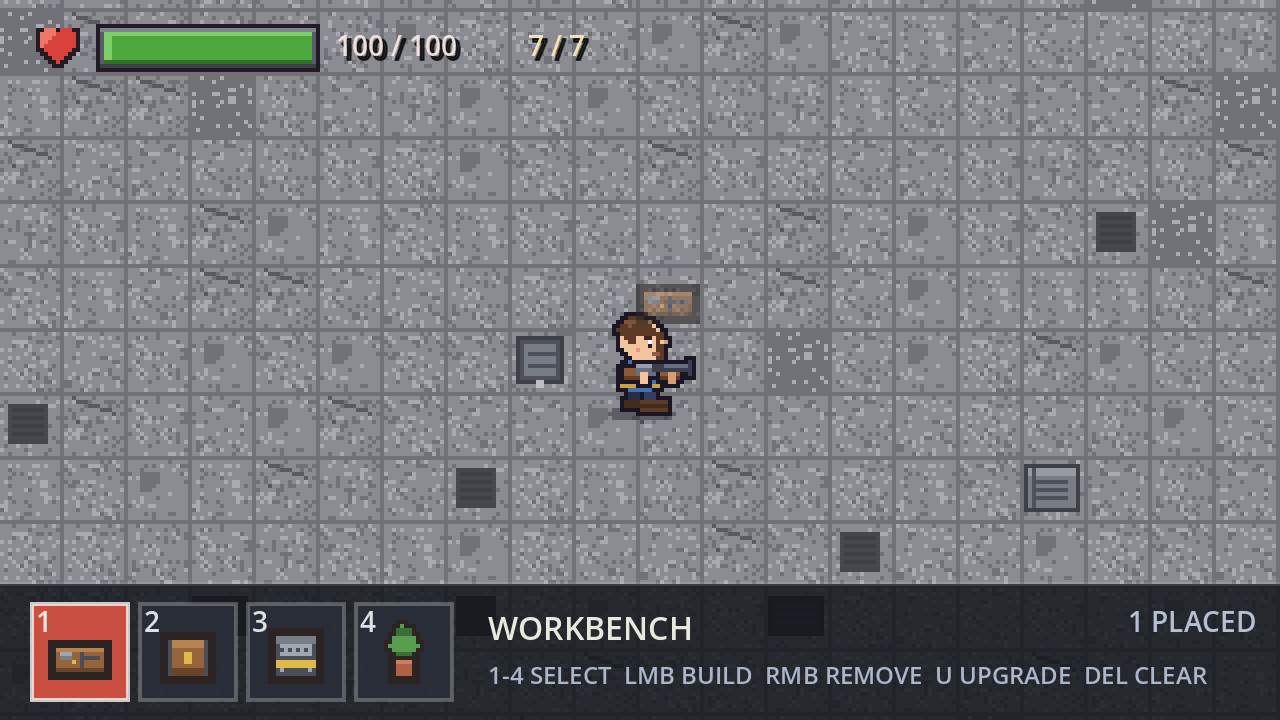
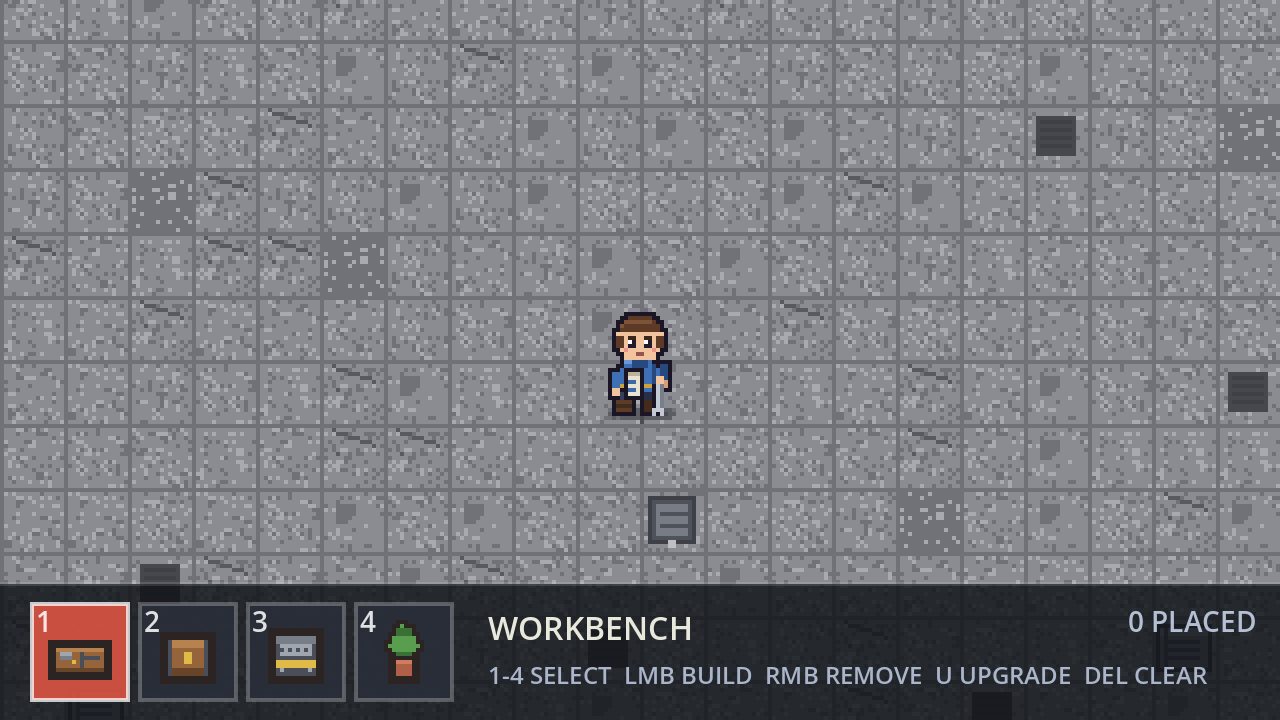
feat: 建造模式角色手里拿蓝图 + 扳手（四方向动画）
- 新增 character_sheet_build.png：空手身体 + 蓝图 + 扳手，四个方向 idle/走路都有
- tools/make_build_sheet.py 从 gun 层定位手的位置合成道具
- player 增加 _frames_build 与 set_build_mode()；builder 发出 build_mode_changed
- Tab 进出建造模式时自动换姿势

diff --git a/tools/make_build_sheet.py b/tools/make_build_sheet.py
@@ -1,0 +1,158 @@
+"""生成建造模式角色表：空手身体 + 手里拿着蓝图和扳手，四个方向都有。
+
+做法：
+1. 以 character_sheet_unarmed.png（身体 + 手）为底；
+2. 用 gun 层的 cel 图找每一帧两只手的位置（肤色像素）；
+3. 在靠左的手上画蓝图、靠右的手上画扳手，方向不同时朝向不同。
+
+输出 assets/character_sheet_build.png（896x32，28 帧，和角色表同布局）。
+运行: python tools/make_build_sheet.py
+"""
+import subprocess
+import tempfile
+from pathlib import Path
+
+from PIL import Image
+
+ROOT = Path(r"C:\game\test")
+ASEPRITE = Path(r"C:\game\Aseprite.v1.3.17\Aseprite.exe")
+LUA = ROOT / "tools" / "dump_gun_frames.lua"
+SOURCE = ROOT / "assets" / "character.aseprite"
+UNARMED = ROOT / "assets" / "character_sheet_unarmed.png"
+OUTPUT = ROOT / "assets" / "character_sheet_build.png"
+
+PAPER = (232, 226, 208, 255)    # 米白图纸
+PAPER_D = (186, 178, 156, 255)
+PAPER_L = (58, 106, 168, 255)   # 蓝图线条
+WRENCH = (196, 202, 212, 255)
+WRENCH_D = (120, 126, 138, 255)
+OUTLINE = (26, 22, 38, 255)
+
+
+def is_skin(pixel) -> bool:
+    r, g, b, a = pixel
+    return a > 0 and r >= 190 and g >= 130 and b >= 90 and r > g > b
+
+
+def hands_of(image: Image):
+    px = image.load()
+    pts = [(x, y) for y in range(32) for x in range(32) if is_skin(px[x, y])]
+    if not pts:
+        return []
+    left = [p for p in pts if p[0] < 16]
+    right = [p for p in pts if p[0] >= 16]
+    out = []
+    for group in (left, right):
+        if group:
+            cx = sum(p[0] for p in group) / len(group)
+            cy = sum(p[1] for p in group) / len(group)
+            out.append((cx, cy))
+    return out
+
+
+def put(px, x, y, color):
+    if 0 <= x < 32 and 0 <= y < 32:
+        px[int(x), int(y)] = color
+
+
+def draw_blueprint(px, cx, cy, direction):
+    """一卷蓝图：米白纸 + 蓝图线条 + 深色描边。"""
+    cx, cy = int(round(cx)), int(round(cy))
+    if direction in (2, 3):   # 左右：横着拿
+        w, h = 8, 5
+    else:                     # 上下：竖着拿
+        w, h = 5, 8
+    x0, y0 = cx - w // 2, cy - h // 2
+    for x in range(w):
+        for y in range(h):
+            edge = x in (0, w - 1) or y in (0, h - 1)
+            put(px, x0 + x, y0 + y, OUTLINE if edge else PAPER)
+    # 内部再压一圈浅灰，显得是卷起的纸
+    for x in range(1, w - 1):
+        put(px, x0 + x, y0 + 1, PAPER_D)
+    # 蓝图线条
+    if w > h:
+        for x in range(2, w - 2, 2):
+            put(px, x0 + x, y0 + 2, PAPER_L)
+            put(px, x0 + x, y0 + 3, PAPER_L)
+    else:
+        for y in range(3, h - 1, 2):
+            put(px, x0 + 1, y0 + y, PAPER_L)
+            put(px, x0 + 2, y0 + y, PAPER_L)
+
+
+def draw_wrench(px, cx, cy, direction):
+    """扳手：一根 2px 厚的杆 + 开口的 C 形头，指向外侧。"""
+    cx, cy = int(round(cx)), int(round(cy))
+    # 沿朝向的单位向量
+    dirs = {0: (0, 1), 1: (0, -1), 2: (-1, 0), 3: (1, 0)}
+    dx, dy = dirs[direction]
+    perp = (dy, dx) if dx == 0 else (-dy, dx)   # 垂直方向（用来画杆的厚度）
+
+    # 杆：从手往外 5 格，2px 厚
+    for i in range(6):
+        bx = cx + dx * i
+        by = cy + dy * i
+        put(px, bx, by, WRENCH)
+        put(px, bx + perp[0], by + perp[1], WRENCH_D)
+
+    # 头：在最外侧，C 形开口
+    hx = cx + dx * 6
+    hy = cy + dy * 6
+    for s in (-1, 0, 1):
+        put(px, hx + perp[0] * s, hy + perp[1] * s, WRENCH)
+    put(px, hx + dx * 1 + perp[0] * -1, hy + dy * 1 + perp[1] * -1, WRENCH)
+    put(px, hx + dx * 1 + perp[0] * 1, hy + dy * 1 + perp[1] * 1, WRENCH)
+    put(px, hx + dx, hy + dy, OUTLINE)
+    # 描边：杆两侧
+    for i in range(6):
+        put(px, cx + dx * i - perp[0], cy + dy * i - perp[1], OUTLINE)
+
+
+def dump_gun_frames(tmp: Path) -> None:
+    text = LUA.read_text(encoding="utf-8").replace("C:/game/test/docs/", tmp.as_posix() + "/")
+    patched = tmp / "dump.lua"
+    patched.write_text(text, encoding="utf-8")
+    subprocess.run([str(ASEPRITE), "-b", str(SOURCE), "--script", str(patched)],
+                   check=True, capture_output=True)
+
+
+def main() -> None:
+    sheet = Image.open(UNARMED).convert("RGBA")
+    out = sheet.copy()
+
+    with tempfile.TemporaryDirectory() as tmpdir:
+        tmp = Path(tmpdir)
+        dump_gun_frames(tmp)
+
+        for i in range(28):
+            direction = i // 7
+            frame = out.crop((i * 32, 0, (i + 1) * 32, 32))
+            px = frame.load()
+
+            gun = Image.open(tmp / f"_gunframe_{i + 1:02d}.png").convert("RGBA")
+            hands = hands_of(gun)
+            if not hands:
+                hands = [(13.0, 20.0), (20.0, 20.0)]
+
+            ox, oy = 0, 0
+            if direction == 0:
+                oy = 1
+            elif direction == 1:
+                oy = -1
+            elif direction == 2:
+                ox = -1
+            else:
+                ox = 1
+
+            draw_blueprint(px, hands[0][0] + ox, hands[0][1] + oy, direction)
+            draw_wrench(px, hands[-1][0] + ox, hands[-1][1] + oy, direction)
+
+            out.paste(frame, (i * 32, 0))
+
+    out.save(OUTPUT)
+    print(f"saved {OUTPUT}  {out.size[0]}x{out.size[1]}")
+
+
+if __name__ == "__main__":
+    main()

diff --git a/README.md b/README.md
@@ -62,6 +62,7 @@ C:\game\test
 │   ├─ character_sheet.png    角色精灵表（896×32，28 帧，无枪）
 │   ├─ character_sheet_gun.png 带枪版精灵表（上下瞄准时用）
 │   ├─ character_sheet_unarmed.png 空手版精灵表（基地里用）
+│   ├─ character_sheet_build.png   建造模式精灵表（蓝图 + 扳手）
 │   ├─ muzzle_flash.aseprite  ★ 枪口火焰源文件（3 帧）
 │   ├─ muzzle_flash.png       火焰精灵表（72×24，3 帧）
 │   ├─ crosshair.aseprite     ★ 准心源文件（2 帧：常态 / 张开）
@@ -105,6 +106,7 @@ C:\game\test
 │   ├─ make_weapon_icon.lua   生成武器图标（霰弹枪 20×20）
 │   ├─ export_nogun.lua       导出不带 gun 图层的角色精灵表
 │   ├─ make_unarmed_sheet.py  合成空手版角色表（身体 + 手，没有枪）
+│   ├─ make_build_sheet.py    合成建造模式角色表（手里拿蓝图 + 扳手）
 │   ├─ make_rifle_icon.lua    生成突击步枪图标（20×20）
 │   ├─ make_zombie.lua        生成僵尸 4 方向动画
 │   ├─ make_zombie_death.lua  生成僵尸爆血死亡动画
@@ -142,6 +144,7 @@ C:\game\test
 | `assets/character_sheet.png` | 896×32 | 32×32 × 28 帧（横排） | 玩家身体（**无枪**，横向瞄准时用） | `character.aseprite` |
 | `assets/character_sheet_gun.png` | 896×32 | 同上 | 玩家身体（**带枪**，上下瞄准时用） | `character.aseprite` |
 | `assets/character_sheet_unarmed.png` | 896×32 | 同上 | 玩家身体（**空手**，基地里用） | `tools/make_unarmed_sheet.py` |
+| `assets/character_sheet_build.png` | 896×32 | 同上 | 玩家身体（**拿蓝图 + 扳手**，建造模式用） | `tools/make_build_sheet.py` |
 | `assets/weapons/shotgun_held.png` | 32×32 | 单帧 | 手持霰弹枪（含手，绕握把旋转） | `character.aseprite` 的 `gun` 层 |
 | `assets/zombie_sheet.png` | 1024×32 | 32×32 × 32 帧 | 僵尸 4 方向 × 8 帧（idle 1 + walk 4 + attack 3） | `zombie.aseprite` |
 | `assets/zombie_death.png` | 240×48 | 48×48 × 5 帧 | 僵尸死亡爆血 | `zombie_death.aseprite` |
@@ -573,6 +576,8 @@ after 3.5s-> 0 只（确认不再刷）
   身体 + 手、没有枪），就是普通走路动画。
 - **基地 HUD 很干净**：没有血条、没有弹药（基地里不打架），只保留底部建造栏和边缘的
   `E - GO DOWNTOWN` 提示。
+- **建造模式换姿势**：按 Tab 后角色换成**手里拿蓝图 + 扳手**的那套帧（`character_sheet_build.png`，
+  四个方向的 idle + 走路都有），退出建造模式再换回空手。
 - **按 Tab 进 / 出建造模式**：不按 Tab 时就是纯走路，底部只有一行 `TAB - BUILD` 提示；
   按 Tab 才弹出底部家具栏，此时才能选家具、放置、拆除、升级。
 - 家具数据是 `BaseFurniture` 资源（`assets/base/*.tres`）：名字、贴图、`max_level`。
